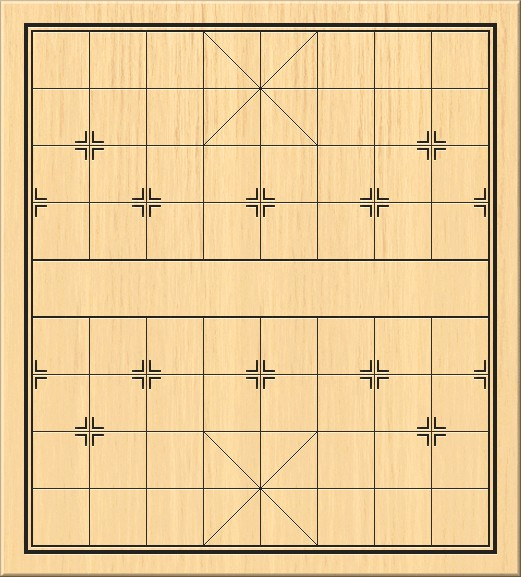
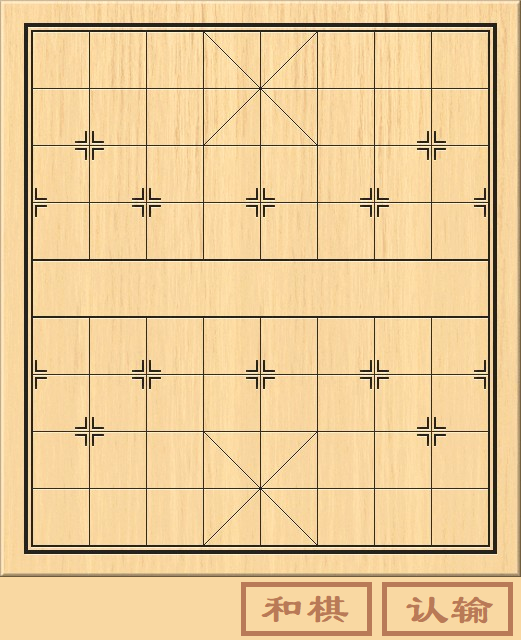
添加‘认输功能’，界面调整

diff --git a/Draw_Related.py b/Draw_Related.py
@@ -75,7 +75,7 @@ class DrawType:
         icon = pygame.image.load("images/图标.png")
         pygame.display.set_icon(icon)
         # 创建窗口
-        self.screen = pygame.display.set_mode((521, 577))
+        self.screen = pygame.display.set_mode((521, 640))
 
         # 背景图片
         self.start_img = pygame.image.load('images/开始界面.png')
@@ -92,6 +92,13 @@ class DrawType:
 
         # 棋盘界面图片
         self.board_img = pygame.image.load('images/棋盘.png')
+
+        self.surrender_button1 = (385, 586)
+        self.surrender_button2 = (510, 633)
+        # 按钮‘认输’左上(385，586)，右下(510,633)
+        self.tie_button1 = (243, 586)
+        self.tie_button2 = (370, 633)
+        # 按钮‘和棋’左上（243，586），右下（370，633）
 
         # 结束界面图片
         self.end_img = None
@@ -118,6 +125,15 @@ class DrawType:
 
         # 棋子初始坐标
         self.chess_info = None
+
+        # 求和标识
+        self.tie = 0
+        # 和棋提示
+        self.surrender_image = pygame.image.load('images/求和提示.png')
+        self.surrender_pos = (18, 590)
+
+        # 认输标识
+        self.surrender = 0
 
     # 背景绘制
     def bg_draw(self):
@@ -194,6 +210,16 @@ class DrawType:
             # 判断点击的是哪一个格子
             self.cur = pos_to_grid(mouse_pos[0], mouse_pos[1])
 
+            # 若点击'和棋'按钮
+            if (self.tie_button1[0] < mouse_pos[0] < self.tie_button2[0]) and (
+                    self.tie_button1[1] < mouse_pos[1] < self.tie_button2[1]):
+                self.tie = 1
+
+            # 若点击'认输'按钮
+            if (self.surrender_button1[0] < mouse_pos[0] < self.surrender_button2[0]) and (
+                    self.surrender_button1[1] < mouse_pos[1] < self.surrender_button2[1]):
+                self.surrender = 1
+
             # 若未轮到本方
             if self.able_move == 0:
                 print('请等待对方下棋')
@@ -252,26 +278,6 @@ class DrawType:
                     self.black_exit1[1] < mouse_pos[1] < self.black_exit2[1]):
                 pygame.quit()
                 sys.exit()
-
-    def solve_rcv(self, msg):
-        # 当接受到游戏结束信息，该信息是胜方发给败方的，因此结合本方颜色判断结束界面
-        if msg.tg == 1 and self.side == 1:
-            self.tag = 30
-        elif msg.tg == 1 and self.side == 0:
-            self.tag = 31
-
-        rcv_data = msg.chess_text
-        # 换方需对矩阵进行180度旋转
-        for i in range(5):
-            for j in range(9):
-                temp = rcv_data[i][j]
-                rcv_data[i][j] = rcv_data[9 - i][8 - j]
-                rcv_data[9 - i][8 - j] = temp
-        # 如果接收到的棋盘与已有棋盘不同，则更新棋盘
-        if self.chess_info != rcv_data:
-            self.chess_info = rcv_data
-            # 轮到己方行动
-            self.able_move = 1
 
     # 绘制棋子
     def draw_chess(self):

diff --git a/Black.py b/Black.py
@@ -134,6 +134,33 @@ class BlackSide(Draw_Related.DrawType):
         else:
             self.c.sendall(pickle.dumps(msg))
 
+    def solve_rcv(self, msg):
+        # 当接受到游戏结束信息，该信息是胜方发给败方的，因此结合本方颜色判断结束界面
+        if msg.tg == 1 and self.side == 1:
+            self.tag = 30
+        elif msg.tg == 1 and self.side == 0:
+            self.tag = 31
+
+        # 收到对方认输信号
+        if msg.tg == 2:
+            temp_msg = Mess()
+            temp_msg.create_mess(1, Black_chess_init)
+            self.send_info(temp_msg)
+            self.tag = 31
+
+        rcv_data = msg.chess_text
+        # 换方需对矩阵进行180度旋转
+        for i in range(5):
+            for j in range(9):
+                temp = rcv_data[i][j]
+                rcv_data[i][j] = rcv_data[9 - i][8 - j]
+                rcv_data[9 - i][8 - j] = temp
+        # 如果接收到的棋盘与已有棋盘不同，则更新棋盘
+        if self.chess_info != rcv_data:
+            self.chess_info = rcv_data
+            # 轮到己方行动
+            self.able_move = 1
+
 
 def main():
     # 初始化
@@ -182,6 +209,12 @@ def main():
 
         # 若为游戏界面
         if black.tag == 2:
+            # 若己方认输
+            if black.surrender == 1:
+                msg.create_mess(2, Black_chess_init)
+                black.send_info(msg)
+                black.surrender = 0
+
             # 传输棋子信息矩阵
             black.send_info(msg)
 

diff --git a/Red.py b/Red.py
@@ -135,6 +135,33 @@ class RedSide(Draw_Related.DrawType):
         else:
             self.c.sendall(pickle.dumps(msg))
 
+    def solve_rcv(self, msg):
+        # 当接受到游戏结束信息，该信息是胜方发给败方的，因此结合本方颜色判断结束界面
+        if msg.tg == 1 and self.side == 1:
+            self.tag = 30
+        elif msg.tg == 1 and self.side == 0:
+            self.tag = 31
+
+        # 收到对方认输信号
+        if msg.tg == 2:
+            temp_msg = Mess()
+            temp_msg.create_mess(1, Red_chess_init)
+            self.send_info(temp_msg)
+            self.tag = 30
+
+        rcv_data = msg.chess_text
+        # 换方需对矩阵进行180度旋转
+        for i in range(5):
+            for j in range(9):
+                temp = rcv_data[i][j]
+                rcv_data[i][j] = rcv_data[9 - i][8 - j]
+                rcv_data[9 - i][8 - j] = temp
+        # 如果接收到的棋盘与已有棋盘不同，则更新棋盘
+        if self.chess_info != rcv_data:
+            self.chess_info = rcv_data
+            # 轮到己方行动
+            self.able_move = 1
+
 
 def main():
     # 初始化
@@ -182,6 +209,12 @@ def main():
 
         # 若为游戏界面
         if red.tag == 2:
+            # 若己方认输
+            if red.surrender == 1:
+                msg.create_mess(2, Red_chess_init)
+                red.send_info(msg)
+                red.surrender = 0
+
             # 传输棋子信息矩阵
             red.send_info(msg)
 

diff --git a/Chess.py b/Chess.py
@@ -155,14 +155,14 @@ def shi_check(chess_info, cur_grid, cur_chess_num):
             cur_can_move.append((cur_grid[0] - 1, cur_grid[1] - 1))
     # 右上
     if cur_grid[1] != 5 and cur_grid[0] != 7:
-        temp_chess = chess_info[cur_grid[0] + 1][cur_grid[1] - 1]
-        if side != temp_chess // 10 or temp_chess == 0:
-            cur_can_move.append((cur_grid[0] + 1, cur_grid[1] - 1))
-    # 左下
-    if cur_grid[1] != 3 and cur_grid[0] != 9:
         temp_chess = chess_info[cur_grid[0] - 1][cur_grid[1] + 1]
         if side != temp_chess // 10 or temp_chess == 0:
             cur_can_move.append((cur_grid[0] - 1, cur_grid[1] + 1))
+    # 左下
+    if cur_grid[1] != 3 and cur_grid[0] != 9:
+        temp_chess = chess_info[cur_grid[0] + 1][cur_grid[1] - 1]
+        if side != temp_chess // 10 or temp_chess == 0:
+            cur_can_move.append((cur_grid[0] + 1, cur_grid[1] - 1))
     # 右下
     if cur_grid[1] != 5 and cur_grid[0] != 9:
         temp_chess = chess_info[cur_grid[0] + 1][cur_grid[1] + 1]
